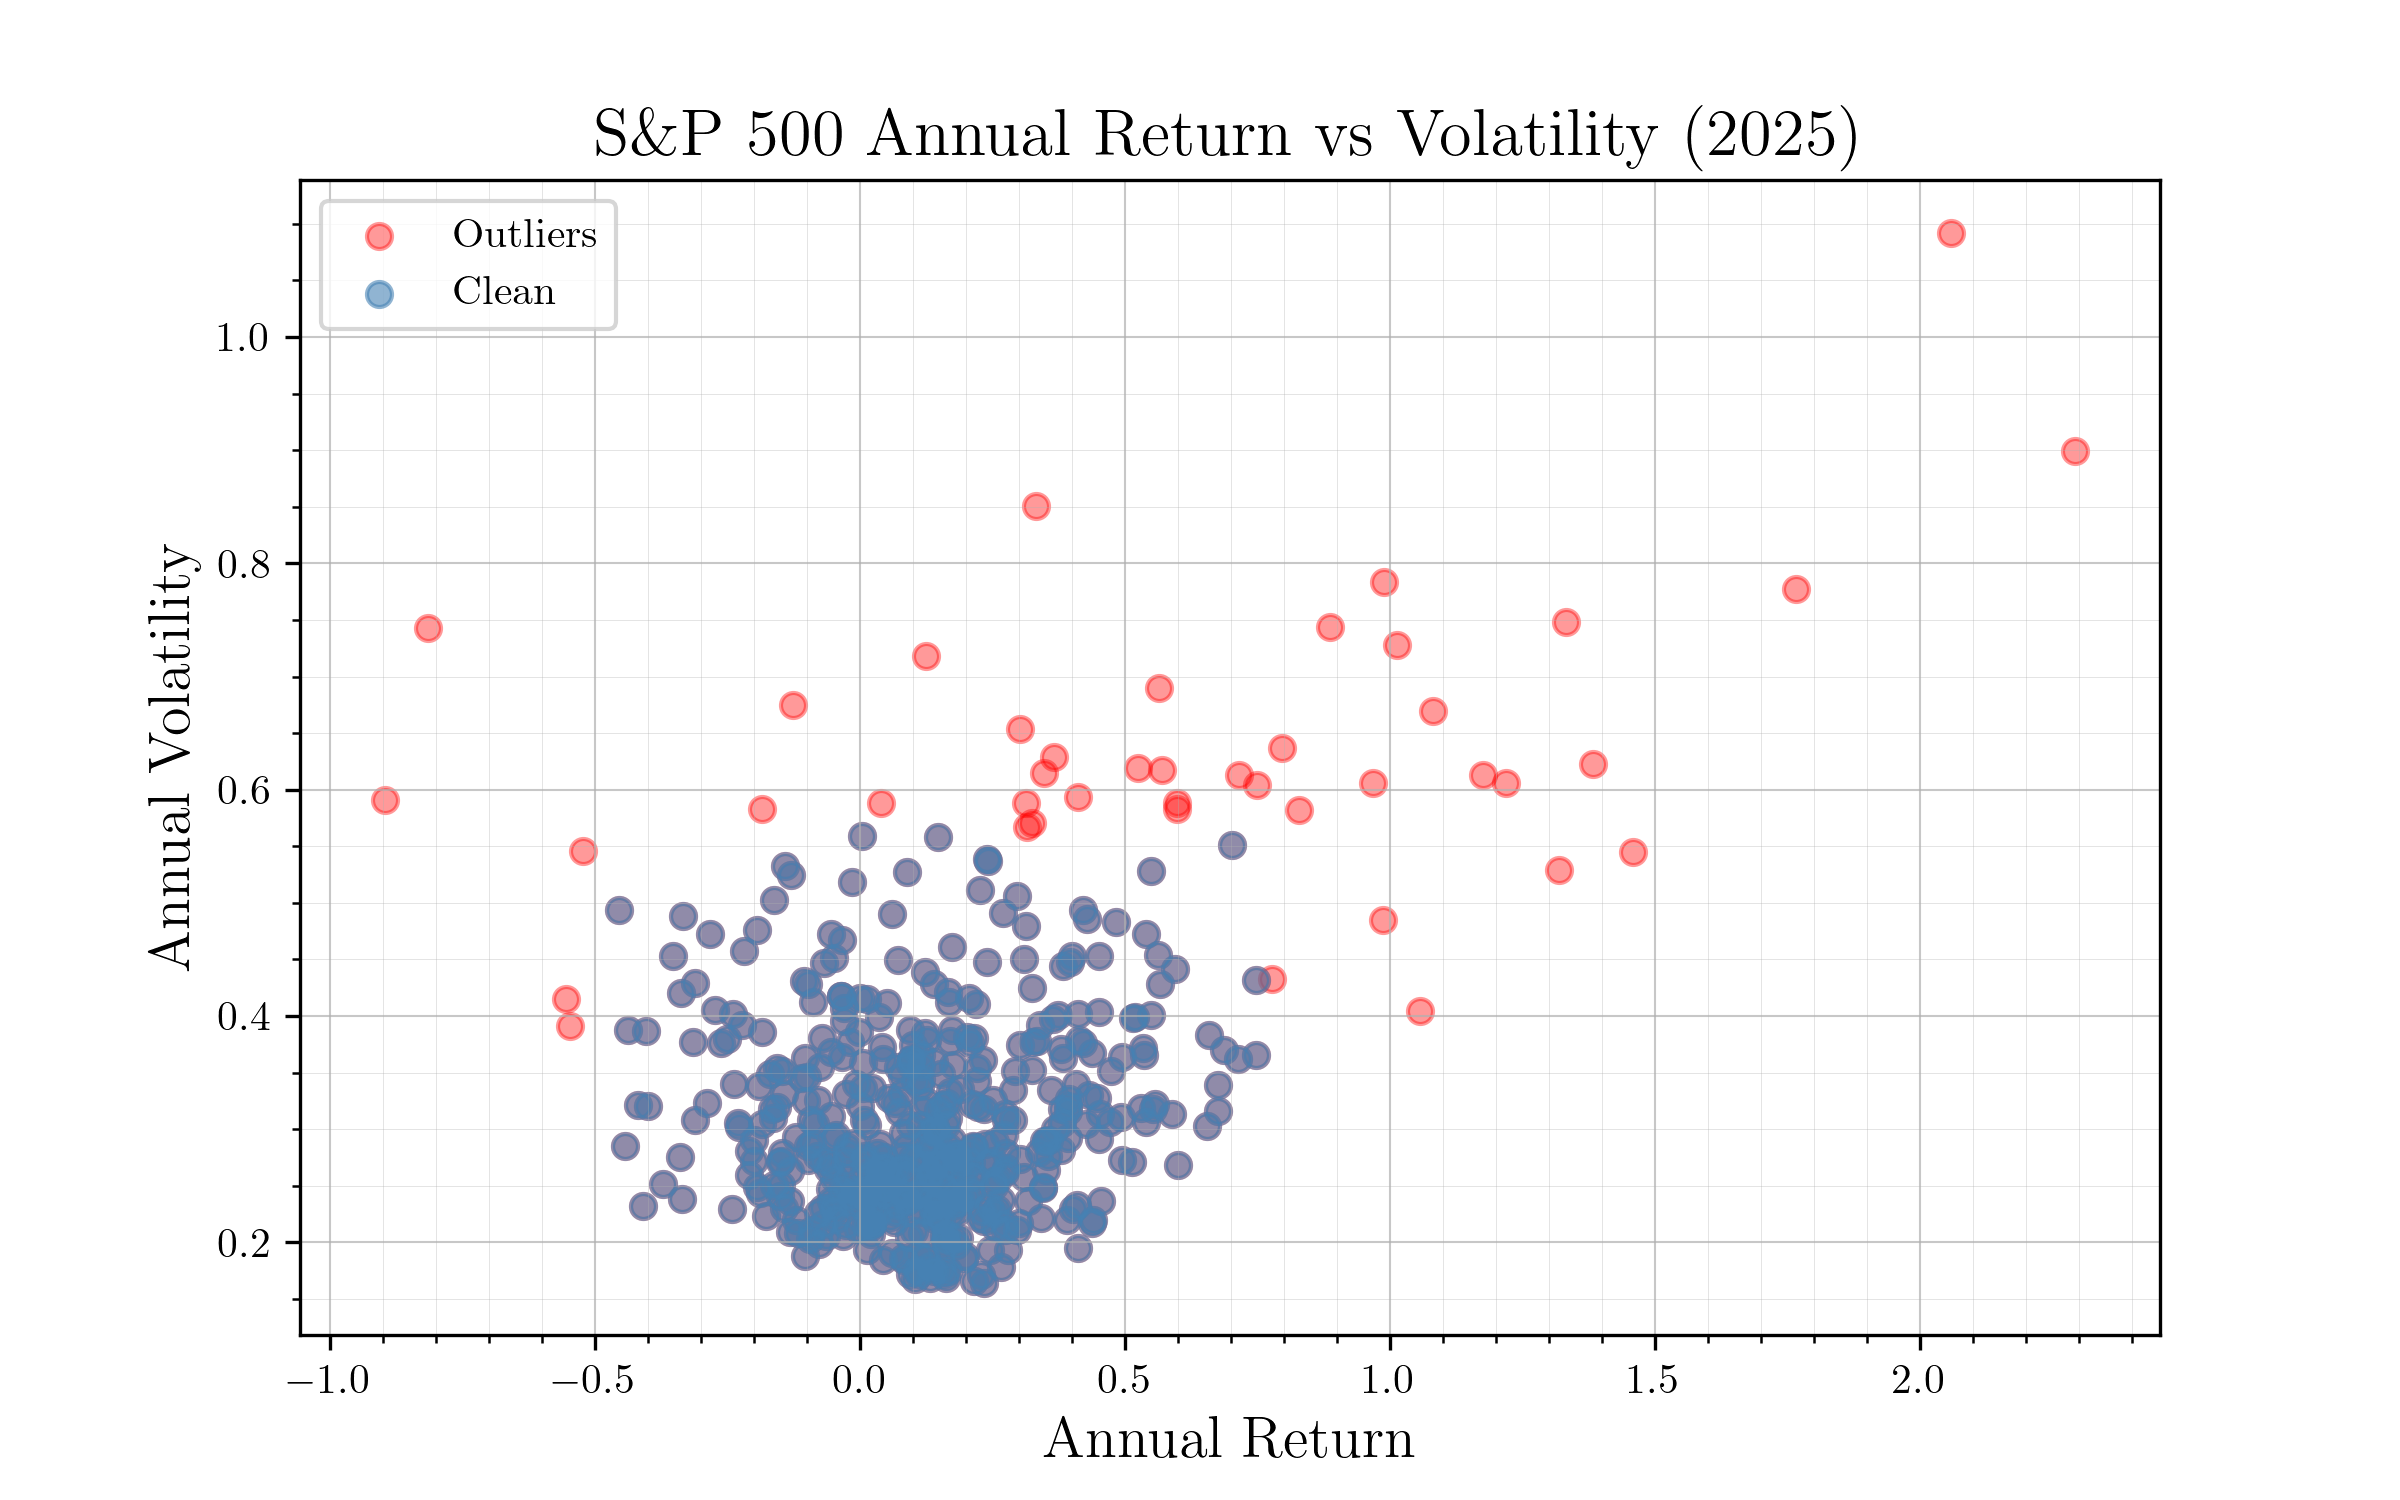
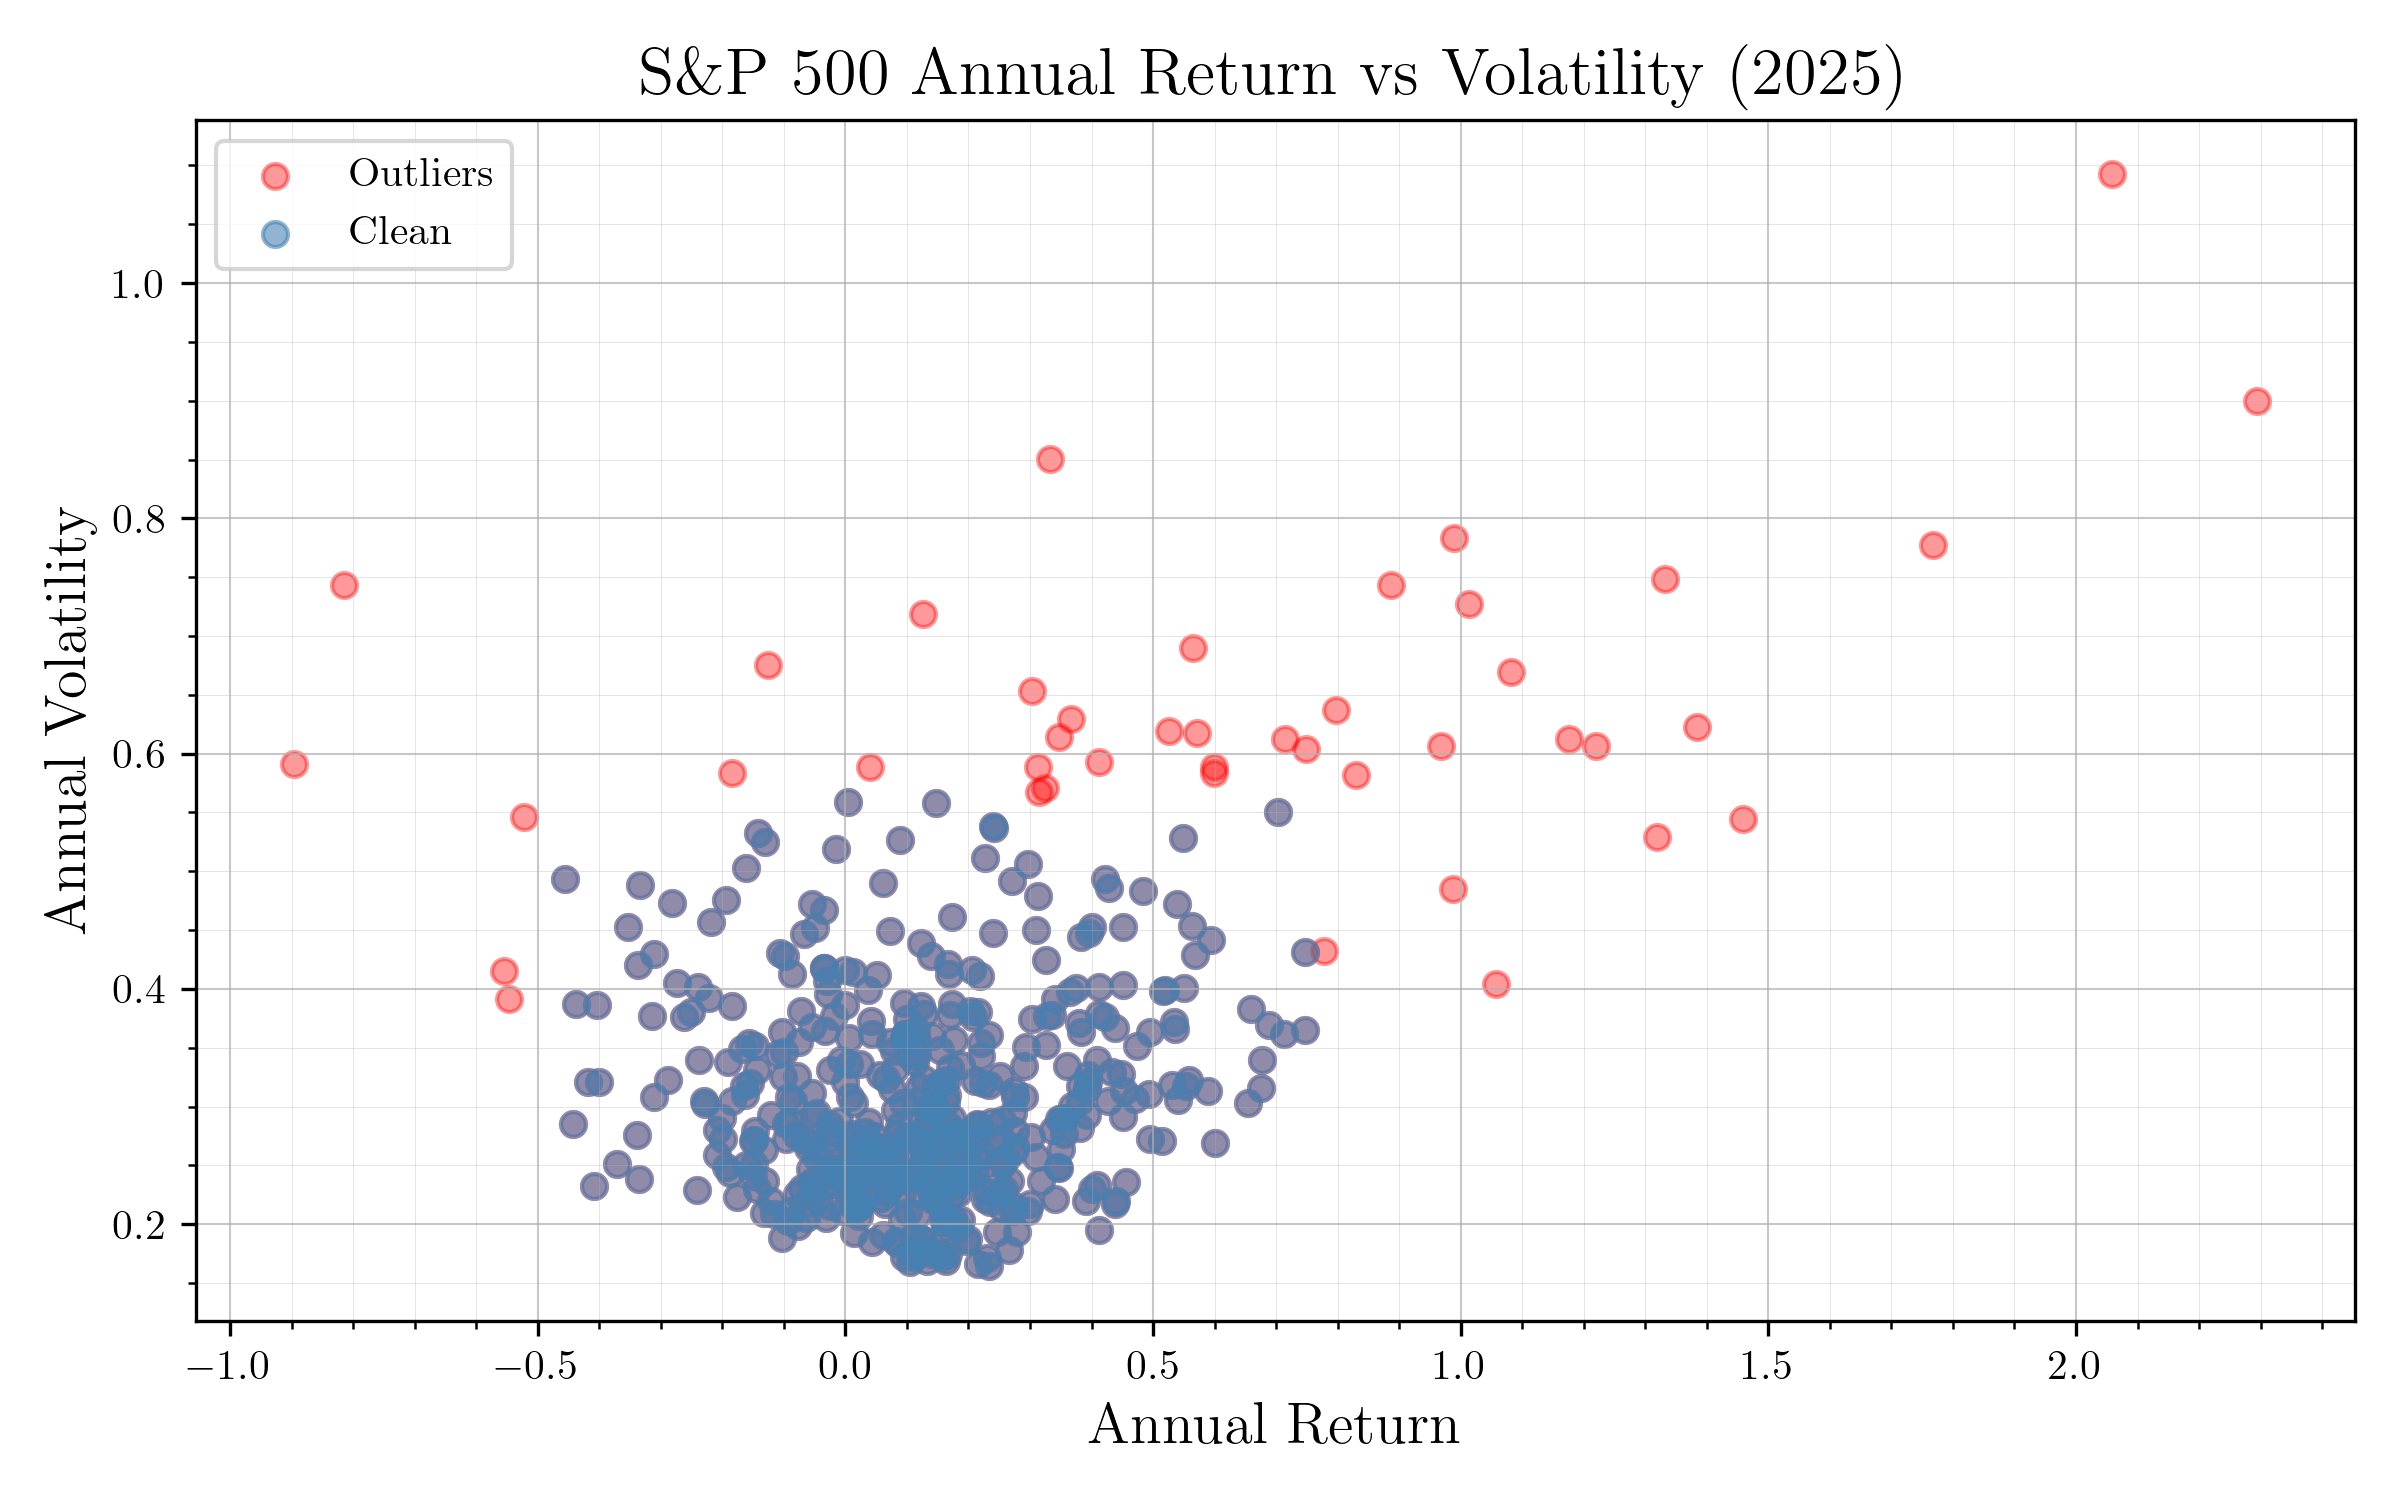
Added initialization methods and lloyd algorithm.

diff --git a/src/initialization.py b/src/initialization.py
@@ -1,0 +1,91 @@
+import numpy as np
+from src.lloyd import euclidean_distances_squared
+
+
+def random_initialization(X, k, rng):
+    """Select k random data points as initial centroids.
+
+    :param X: Data matrix with shape (n_samples, n_features).
+    :param k: Number of clusters.
+    :param rng: Random number generator.
+    :return: Initial centroids with shape (k, n_features).
+    """
+    if k > len(X):
+        raise ValueError("k cannot be larger than the number of data points.")
+
+    indices = rng.choice(len(X), size=k, replace=False)
+    return X[indices].copy()
+
+
+def kmeans_plus_plus_initialization(X, k, rng):
+    """Select initial centroids using the k-means++ method.
+
+    The first centroid is selected uniformly at random. Each next centroid is
+    selected with probability proportional to the squared distance from the
+    nearest already chosen centroid.
+
+    :param X: Data matrix with shape (n_samples, n_features).
+    :param k: Number of clusters.
+    :param rng: Random number generator.
+    :return: Initial centroids with shape (k, n_features).
+    """
+    if k > len(X):
+        raise ValueError("k cannot be larger than the number of data points.")
+
+    n_samples = len(X)
+    centers = []
+
+    first_index = rng.integers(n_samples)
+    centers.append(X[first_index])
+
+    for _ in range(1, k):
+        centers_array = np.array(centers)
+
+        distances = euclidean_distances_squared(X, centers_array)
+        nearest_distances = np.min(distances, axis=1)
+
+        total_distance = np.sum(nearest_distances)
+
+        if total_distance == 0:
+            remaining_indices = rng.choice(n_samples, size=k - len(centers), replace=False)
+            centers.extend(X[remaining_indices])
+            break
+
+        probabilities = nearest_distances / total_distance
+        next_index = rng.choice(n_samples, p=probabilities)
+
+        centers.append(X[next_index])
+
+    return np.array(centers)
+
+
+def gonzalez_initialization(X, k, rng):
+    """Select initial centroids using Gonzalez farthest-first initialization.
+
+    The first centroid is selected uniformly at random. Each next centroid is
+    the point farthest away from its nearest already chosen centroid.
+
+    :param X: Data matrix with shape (n_samples, n_features).
+    :param k: Number of clusters.
+    :param rng: Random number generator.
+    :return: Initial centroids with shape (k, n_features).
+    """
+    if k > len(X):
+        raise ValueError("k cannot be larger than the number of data points.")
+
+    n_samples = len(X)
+    centers = []
+
+    first_index = rng.integers(n_samples)
+    centers.append(X[first_index])
+
+    for _ in range(1, k):
+        centers_array = np.array(centers)
+
+        distances = euclidean_distances_squared(X, centers_array)
+        nearest_distances = np.min(distances, axis=1)
+
+        next_index = np.argmax(nearest_distances)
+        centers.append(X[next_index])
+
+    return np.array(centers)

diff --git a/src/lloyd.py b/src/lloyd.py
@@ -1,0 +1,79 @@
+import numpy as np
+
+
+def euclidean_distances_squared(X, centers):
+    """Compute squared Euclidean distances from every point to every center.
+
+    :param X: Data matrix with shape (n_samples, n_features).
+    :param centers: Centroid matrix with shape (k, n_features).
+    :return: Squared distance matrix with shape (n_samples, k).
+    """
+    return np.sum((X[:, None, :] - centers[None, :, :]) ** 2, axis=2)
+
+
+def compute_inertia(X, centers, labels):
+    """Compute the k-means clustering cost.
+
+    Inertia is the sum of squared distances from each point to its assigned
+    centroid.
+
+    :param X: Data matrix with shape (n_samples, n_features).
+    :param centers: Centroid matrix with shape (k, n_features).
+    :param labels: Cluster assignment for each point.
+    :return: Sum of squared distances to assigned centroids.
+    """
+    return float(np.sum((X - centers[labels]) ** 2))
+
+
+def lloyd_kmeans(X, initial_centers, max_iter=300, tol=0.0):
+    """Run Lloyd's k-means algorithm from fixed initial centroids.
+
+    :param X: Data matrix with shape (n_samples, n_features).
+    :param initial_centers: Initial centroids with shape (k, n_features).
+    :param max_iter: Maximum number of Lloyd iterations.
+    :param tol: Optional tolerance for centroid movement. If tol is 0.0,
+        convergence is based only on unchanged assignments.
+    :return: Dictionary containing final centers, labels, inertia, number of
+        iterations, and inertia history.
+    """
+    centers = initial_centers.copy()
+    old_labels = None
+    inertia_history = []
+
+    for iteration in range(1, max_iter + 1):
+        distances = euclidean_distances_squared(X, centers)
+        labels = np.argmin(distances, axis=1)
+
+        inertia = compute_inertia(X, centers, labels)
+        inertia_history.append(inertia)
+
+        if old_labels is not None and np.array_equal(labels, old_labels):
+            break
+
+        new_centers = centers.copy()
+
+        for j in range(len(centers)):
+            cluster_points = X[labels == j]
+
+            if len(cluster_points) > 0:
+                new_centers[j] = cluster_points.mean(axis=0)
+
+        center_shift = np.linalg.norm(new_centers - centers)
+
+        centers = new_centers
+        old_labels = labels.copy()
+
+        if tol > 0.0 and center_shift <= tol:
+            break
+
+    distances = euclidean_distances_squared(X, centers)
+    labels = np.argmin(distances, axis=1)
+    final_inertia = compute_inertia(X, centers, labels)
+
+    return {
+        "centers": centers,
+        "labels": labels,
+        "inertia": final_inertia,
+        "iterations": iteration,
+        "inertia_history": inertia_history
+    }

diff --git a/src/figures.py b/src/figures.py
@@ -1,0 +1,64 @@
+from pathlib import Path
+
+import pandas as pd
+import matplotlib.pyplot as plt
+from matplotlib import rc
+
+
+def setup_matplotlib() -> None:
+    """Configure matplotlib to use LaTeX rendering with serif fonts."""
+    rc('font', **{'family': 'serif', 'serif': ['Computer Modern']})
+    rc('text', usetex=True)
+
+
+def plot_return_vs_volatility(stats: pd.DataFrame, stats_out: pd.DataFrame, year: int, output_path: Path) -> None:
+    """Plot annual return vs volatility, highlighting outliers.
+
+    :param stats: Full stats DataFrame including outliers.
+    :param stats_out: Stats DataFrame with outliers removed.
+    :param year: Year of the data, used in title and output filename.
+    """
+    fig, ax = plt.subplots(figsize=(8, 5))
+
+    ax.scatter(stats['annual_return'],
+               stats['annual_volatility'],
+               alpha=0.4,
+               label='Outliers',
+               color='red')
+    ax.scatter(stats_out['annual_return'],
+               stats_out['annual_volatility'],
+               alpha=0.6,
+               label='Clean',
+               color='steelblue')
+
+    ax.minorticks_on()
+    ax.grid(True, which='major', linewidth=0.5, alpha=0.7)
+    ax.grid(True, which='minor', linewidth=0.2, alpha=0.4)
+
+    ax.set_title(rf'S\&P 500 Annual Return vs Volatility ({year})', fontsize=16, fontweight='bold')
+    ax.set_xlabel(r'Annual Return', fontsize=14)
+    ax.set_ylabel(r'Annual Volatility', fontsize=14)
+    ax.legend()
+
+    fig.tight_layout()
+    fig.savefig(output_path, dpi=300)
+    plt.show()
+
+
+if __name__ == '__main__':
+    setup_matplotlib()
+
+    year: int = 2025
+
+    project_root = Path(__file__).resolve().parents[1]
+    data_dir = project_root / "data"
+    figs_dir = project_root / "figs"
+
+    stats_path = data_dir / f"sp500_stats_{year}.csv"
+    stats_out_path = data_dir / f"sp500_outliers_{year}.csv"
+    output_path = figs_dir / f"sp500_{year}.png"
+
+    stats: pd.DataFrame = pd.read_csv(stats_path)
+    stats_out: pd.DataFrame = pd.read_csv(stats_out_path)
+
+    plot_return_vs_volatility(stats, stats_out, year, output_path)

diff --git a/test_algorithm.py b/test_algorithm.py
@@ -1,0 +1,44 @@
+import numpy as np
+from src.initialization import random_initialization, kmeans_plus_plus_initialization, gonzalez_initialization
+from src.lloyd import lloyd_kmeans
+
+
+def inertia_decreases(history):
+    """Check if inertia does not increase."""
+    for i in range(len(history) - 1):
+        if history[i + 1] > history[i]:
+            return False
+    return True
+
+
+if __name__ == "__main__":
+    X = np.array([
+        [0.0, 0.0],
+        [0.1, 0.2],
+        [5.0, 5.0],
+        [5.2, 4.9],
+        [10.0, 10.0],
+        [10.1, 9.8],
+    ])
+
+    k = 3
+    seed = 42
+
+    methods = {
+        "random": random_initialization,
+        "k-means++": kmeans_plus_plus_initialization,
+        "gonzalez": gonzalez_initialization,
+    }
+
+    for name, init_method in methods.items():
+        rng = np.random.default_rng(seed)
+
+        initial_centers = init_method(X, k, rng)
+        result = lloyd_kmeans(X, initial_centers)
+
+        print(f"\n{name}")
+        print("centers shape:", result["centers"].shape)
+        print("labels:", result["labels"])
+        print("inertia:", result["inertia"])
+        print("iterations:", result["iterations"])
+        print("inertia decreases:", inertia_decreases(result["inertia_history"]))